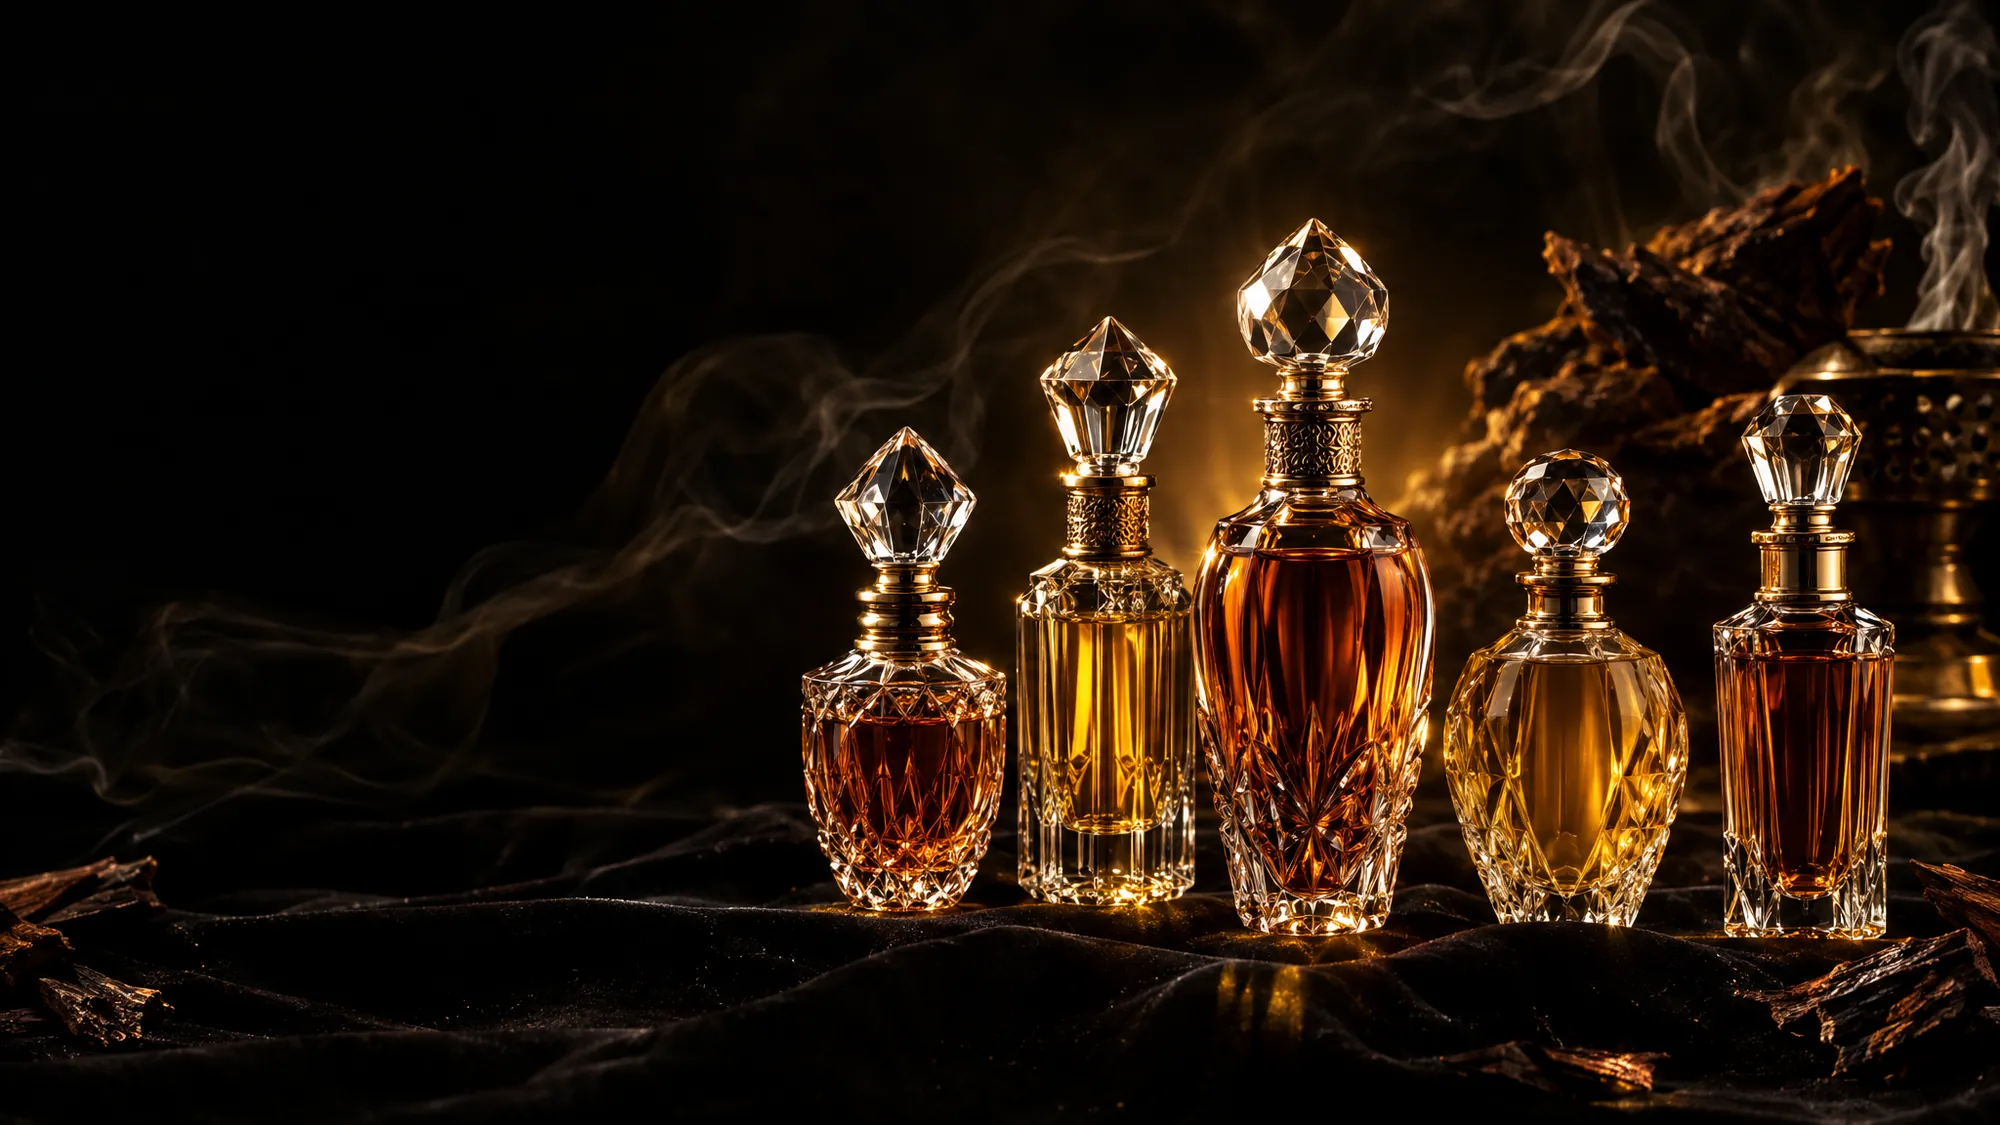
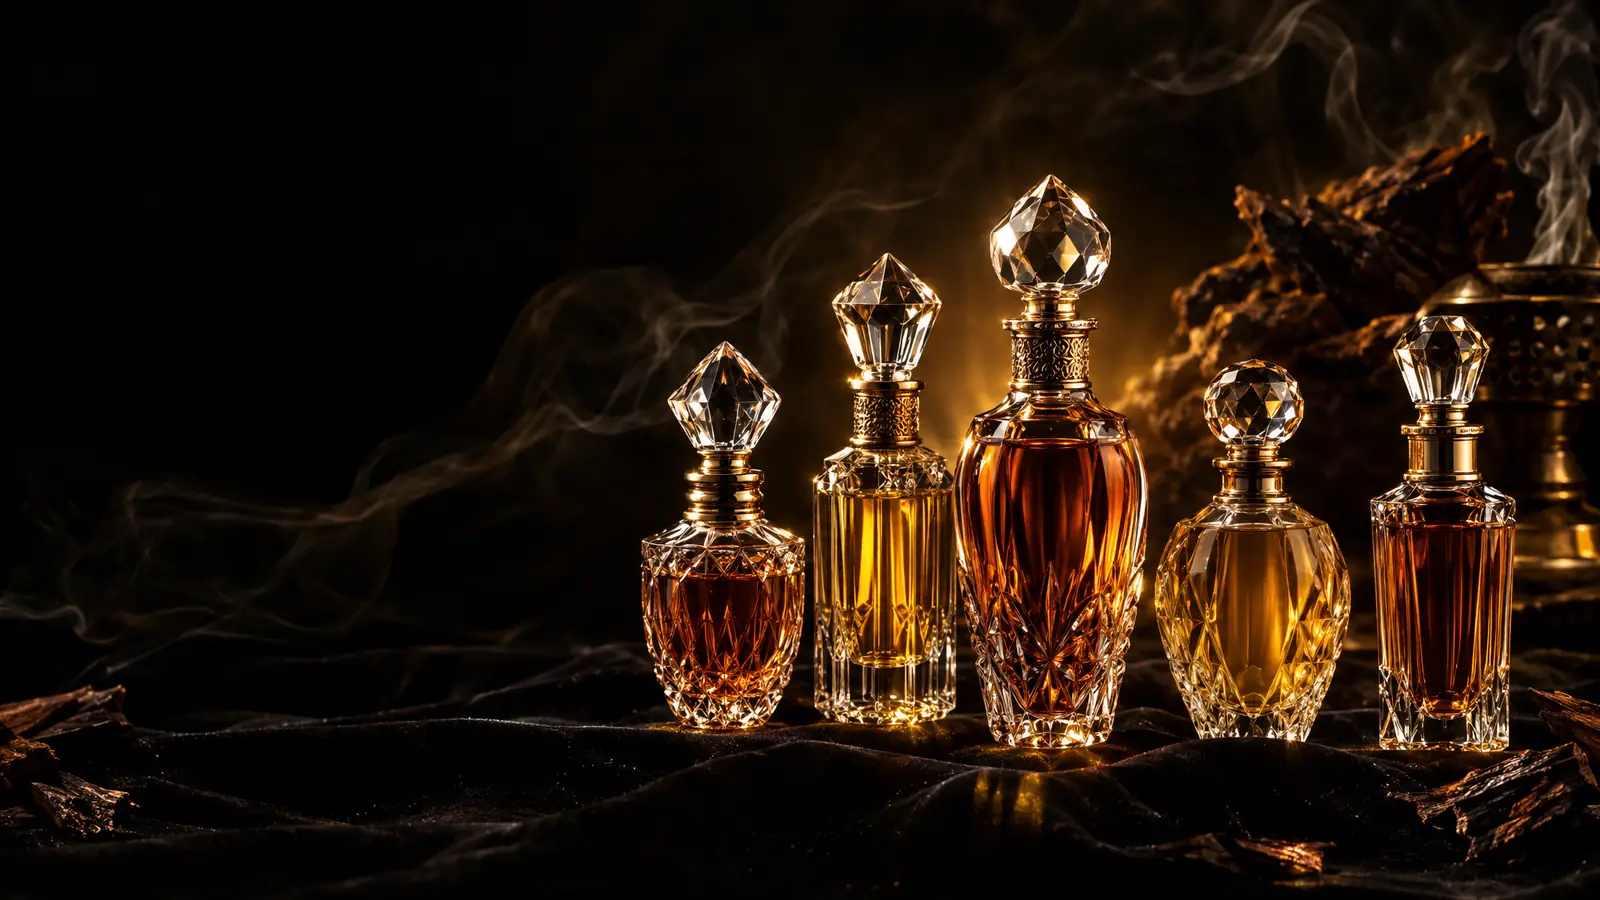
perf: تسريع فتح الموقع (FCP 756→336ms، الحجم −22%) + توثيق القياسات

diff --git a/index.html b/index.html
@@ -17,7 +17,10 @@
 
 <link rel="preconnect" href="https://fonts.googleapis.com">
 <link rel="preconnect" href="https://fonts.gstatic.com" crossorigin>
-<link href="https://fonts.googleapis.com/css2?family=Amiri:wght@400;700&family=Aref+Ruqaa:wght@700&family=IBM+Plex+Sans+Arabic:wght@300;400;500;600&display=swap" rel="stylesheet">
+<link rel="dns-prefetch" href="https://www.google.com">
+<link rel="preload" as="style" href="https://fonts.googleapis.com/css2?family=Amiri:wght@400;700&family=IBM+Plex+Sans+Arabic:wght@300;500&display=swap" onload="this.onload=null;this.rel='stylesheet'">
+<link rel="preload" as="style" href="https://fonts.googleapis.com/css2?family=Aref+Ruqaa:wght@700&display=swap&text=%D8%A3%D8%A8%D9%88%20%D9%86%D8%B3%D8%A7%D9%84%D9%83%D9%8A%D8%AD%D8%A9%D8%B4%D9%84%D8%A7%D9%88" onload="this.onload=null;this.rel='stylesheet'">
+<noscript><link rel="stylesheet" href="https://fonts.googleapis.com/css2?family=Amiri:wght@400;700&family=Aref+Ruqaa:wght@700&family=IBM+Plex+Sans+Arabic:wght@300;500&display=swap"></noscript>
 <link rel="preload" as="image" href="assets/img/hero-m.webp" media="(max-width: 760px)">
 <link rel="preload" as="image" href="assets/img/hero-2000.webp" media="(min-width: 761px)">
 
@@ -66,6 +69,7 @@ button{font:inherit;color:inherit;background:none;border:0;cursor:pointer}
 .lead{color:var(--muted);font-size:clamp(16px,2.1vw,18px);max-width:620px}
 .center{text-align:center}.center .lead{margin-inline:auto}
 section{position:relative}
+#collection,#shop,#visit,footer{content-visibility:auto;contain-intrinsic-size:auto 1200px}
 .sec{padding:clamp(80px,12vw,140px) 0}
 .divider{width:100%;height:1px;background:linear-gradient(90deg,transparent,var(--line),transparent)}
 
@@ -130,11 +134,11 @@ body.menu-open{overflow:hidden}
 .hero::after{content:"";position:absolute;inset:0;z-index:-1;background:
   linear-gradient(180deg,rgba(11,9,7,.55) 0%,rgba(11,9,7,0) 22%,rgba(11,9,7,0) 42%,rgba(11,9,7,.88) 74%,var(--ink) 100%)}
 .hero-content{padding-bottom:clamp(56px,10vh,110px);padding-top:120px;text-align:center}
-.hero .eyebrow{animation:rise 1s .3s var(--ease) both}
-.hero h1{font-family:var(--ruqaa);font-weight:700;font-size:clamp(52px,11vw,124px);line-height:1.15;margin:14px 0 6px;animation:rise 1.1s .45s var(--ease) both;filter:drop-shadow(0 6px 30px rgba(0,0,0,.6))}
-.hero .tag{font-family:var(--display);font-size:clamp(20px,3.4vw,30px);color:var(--cream);animation:rise 1.1s .6s var(--ease) both}
-.hero .sub{color:var(--muted);margin:10px auto 30px;font-size:15px;letter-spacing:.06em;animation:rise 1.1s .72s var(--ease) both}
-.hero .cta{display:flex;gap:12px;justify-content:center;flex-wrap:wrap;animation:rise 1.1s .85s var(--ease) both}
+.hero .eyebrow{animation:rise .7s .05s var(--ease) both}
+.hero h1{font-family:var(--ruqaa);font-weight:700;font-size:clamp(52px,11vw,124px);line-height:1.15;margin:14px 0 6px;animation:rise .7s .1s var(--ease) both;filter:drop-shadow(0 6px 30px rgba(0,0,0,.6))}
+.hero .tag{font-family:var(--display);font-size:clamp(20px,3.4vw,30px);color:var(--cream);animation:rise .7s .15s var(--ease) both}
+.hero .sub{color:var(--muted);margin:10px auto 30px;font-size:15px;letter-spacing:.06em;animation:rise .7s .2s var(--ease) both}
+.hero .cta{display:flex;gap:12px;justify-content:center;flex-wrap:wrap;animation:rise .7s .25s var(--ease) both}
 @keyframes rise{from{opacity:0;transform:translateY(26px)}to{opacity:1;transform:none}}
 .scroll-cue{position:absolute;bottom:22px;left:50%;translate:-50% 0;width:22px;height:36px;border:1px solid var(--line);border-radius:12px;display:none}
 .scroll-cue::after{content:"";position:absolute;top:7px;left:50%;width:2px;height:7px;margin-left:-1px;background:var(--gold);border-radius:2px;animation:cue 2s infinite}
@@ -162,7 +166,7 @@ body.menu-open{overflow:hidden}
 .frame::after{content:"";position:absolute;inset:12px;border:1px solid rgba(243,223,162,.35);border-radius:var(--r);pointer-events:none}
 .steps{list-style:none;margin-top:30px;display:grid;gap:16px;counter-reset:s}
 .steps li{display:flex;gap:16px;align-items:flex-start;padding:18px;border:1px solid var(--line);border-radius:16px;background:rgba(20,16,12,.6);counter-increment:s}
-.steps li::before{content:counter(s,arabic-indic);flex:none;width:40px;height:40px;border-radius:50%;display:grid;place-items:center;background:var(--grad);color:#1a1206;font-weight:600;font-family:var(--display);font-size:20px}
+.steps li::before{content:counter(s,arabic-indic);flex:none;width:40px;height:40px;border-radius:50%;display:grid;place-items:center;background:var(--grad);color:#1a1206;font-weight:500;font-family:var(--display);font-size:20px}
 .steps b{display:block;font-weight:500;font-size:17px;color:var(--cream)}
 .steps span{color:var(--muted);font-size:14.5px}
 .split .btn{margin-top:28px}
@@ -310,8 +314,8 @@ footer .brand b{font-size:30px}
 <section class="hero" id="hero">
   <picture>
     <source media="(max-width:760px)" srcset="assets/img/hero-m.webp">
-    <source media="(max-width:1200px)" srcset="assets/img/hero-1000.webp 1000w, assets/img/hero-2000.webp 2000w" sizes="100vw">
-    <img src="assets/img/hero-2000.webp" alt="قوارير عطر كريستال فاخرة بزيوت عطرية ذهبية ودخان بخور" width="2000" height="1125" fetchpriority="high">
+    <source media="(max-width:1200px)" srcset="assets/img/hero-1000.webp 1000w, assets/img/hero-2000.webp 1600w" sizes="100vw">
+    <img src="assets/img/hero-2000.webp" alt="قوارير عطر كريستال فاخرة بزيوت عطرية ذهبية ودخان بخور" width="1600" height="900" fetchpriority="high" decoding="async">
   </picture>
   <div class="wrap hero-content">
     <span class="eyebrow">الحديدة · جولة الساعة</span>

diff --git a/docs/05-performance.md b/docs/05-performance.md
@@ -1,0 +1,27 @@
+# تسريع فتح الموقع — 30/10/2026
+
+## طريقة القياس
+متصفح Chromium (Playwright) على شبكة جوال بطيئة مُحاكاة: **1.6 ميغابت/ث، تأخير 150ms**. القياس على السيرفر المحلي.
+
+## النتائج (قبل ← بعد)
+| المقياس | جوال قبل | جوال بعد | ديسكتوب قبل | ديسكتوب بعد |
+|---|---|---|---|---|
+| **أول ظهور للمحتوى (FCP)** | 756ms | **336ms** (أسرع 2.2×) | 632ms | **308ms** (أسرع 2×) |
+| ظهور صورة الواجهة (LCP) | 1696ms | 1660ms | 1708ms | 1636ms |
+| اكتمال التحميل | 3243ms | 2855ms | 3914ms | 3369ms |
+| حجم أول تحميل | 189KB | **148KB** (−22%) | 330KB | **250KB** (−24%) |
+| عدد الطلبات | 5 | 6 | 5 | 6 |
+
+## التعديلات
+1. **الخطوط لا تعطّل الرسم:** تُحمَّل بـ `preload` + `onload` بدل `stylesheet` المعطِّل، مع بديل `<noscript>`.
+2. **خط الرقعة مُقلَّص:** يُحمَّل بحروف «أبو أنس البكالي / حبة كاش وحبة بلاش» فقط (`&text=`) بدل الخط كاملًا.
+3. **أوزان خطوط أقل:** IBM Plex من 4 أوزان إلى 2 (300، 500).
+4. **صور الواجهة أخف:** جوال 101→58KB، ديسكتوب 197→114KB (1600px بدل 2000px).
+5. **حركة البداية أسرع:** تأخير ظهور العنوان من 0.45ث إلى 0.1ث.
+6. **`content-visibility:auto`** للأقسام البعيدة: المتصفح لا يرسمها إلا عند الاقتراب منها.
+7. **`dns-prefetch`** لخرائط Google، والخريطة نفسها لا تُحمَّل إلا عند الاقتراب منها (موجود من قبل).
+
+## ملاحظات صريحة
+- **صورة الواجهة (LCP) تحسنت قليلًا فقط (~40ms)**: أغلب وقتها هو تأخير الشبكة نفسها. التحسن الأكبر سيأتي من الاستضافة على CDN (مثل GitHub Pages أو Cloudflare) بدل سيرفر المعاينة.
+- عدد الطلبات زاد واحدًا لأن خط الرقعة صار ملفًا مستقلًا مُقلَّصًا — الحجم الكلي أقل.
+- بعد التعديل: **0 أخطاء كونسول، 0 ملفات مفقودة، 0 تمرير أفقي**، والخطوط تظهر صحيحة (تم التحقق بلقطة شاشة).

diff --git a/CHANGELOG.md b/CHANGELOG.md
@@ -6,3 +6,4 @@
 - **feat:** الصفحة الواحدة الكاملة + القائمة الجانبية ببطاقة المطوّر معين العباسي.
 - **fix:** رابط الخريطة المضمّنة + خلفية احتياطية.
 - **test:** جوال وديسكتوب — 0 أخطاء، 0 ملفات مفقودة، 0 تمرير أفقي. التفاصيل: `docs/04-build-and-test.md`.
+- **perf:** أول ظهور للمحتوى من 756ms إلى 336ms على الجوال، الحجم −22%: خطوط غير معطِّلة، خط الرقعة مُقلَّص، صور واجهة أخف، `content-visibility`. التفاصيل: `docs/05-performance.md`.

diff --git a/README.md b/README.md
@@ -15,4 +15,5 @@
 | [`docs/02-analysis.md`](docs/02-analysis.md) | تحليل المحادثة والصور وقرار التصميم |
 | [`docs/03-requirements.md`](docs/03-requirements.md) | المتطلبات ومعايير القبول |
 | [`docs/04-build-and-test.md`](docs/04-build-and-test.md) | التنفيذ والصور ونتائج الاختبار |
+| [`docs/05-performance.md`](docs/05-performance.md) | تسريع الفتح: القياسات قبل وبعد |
 | `docs/raw/` | المواد الخام: المحادثة، الصور، التسجيلات |
